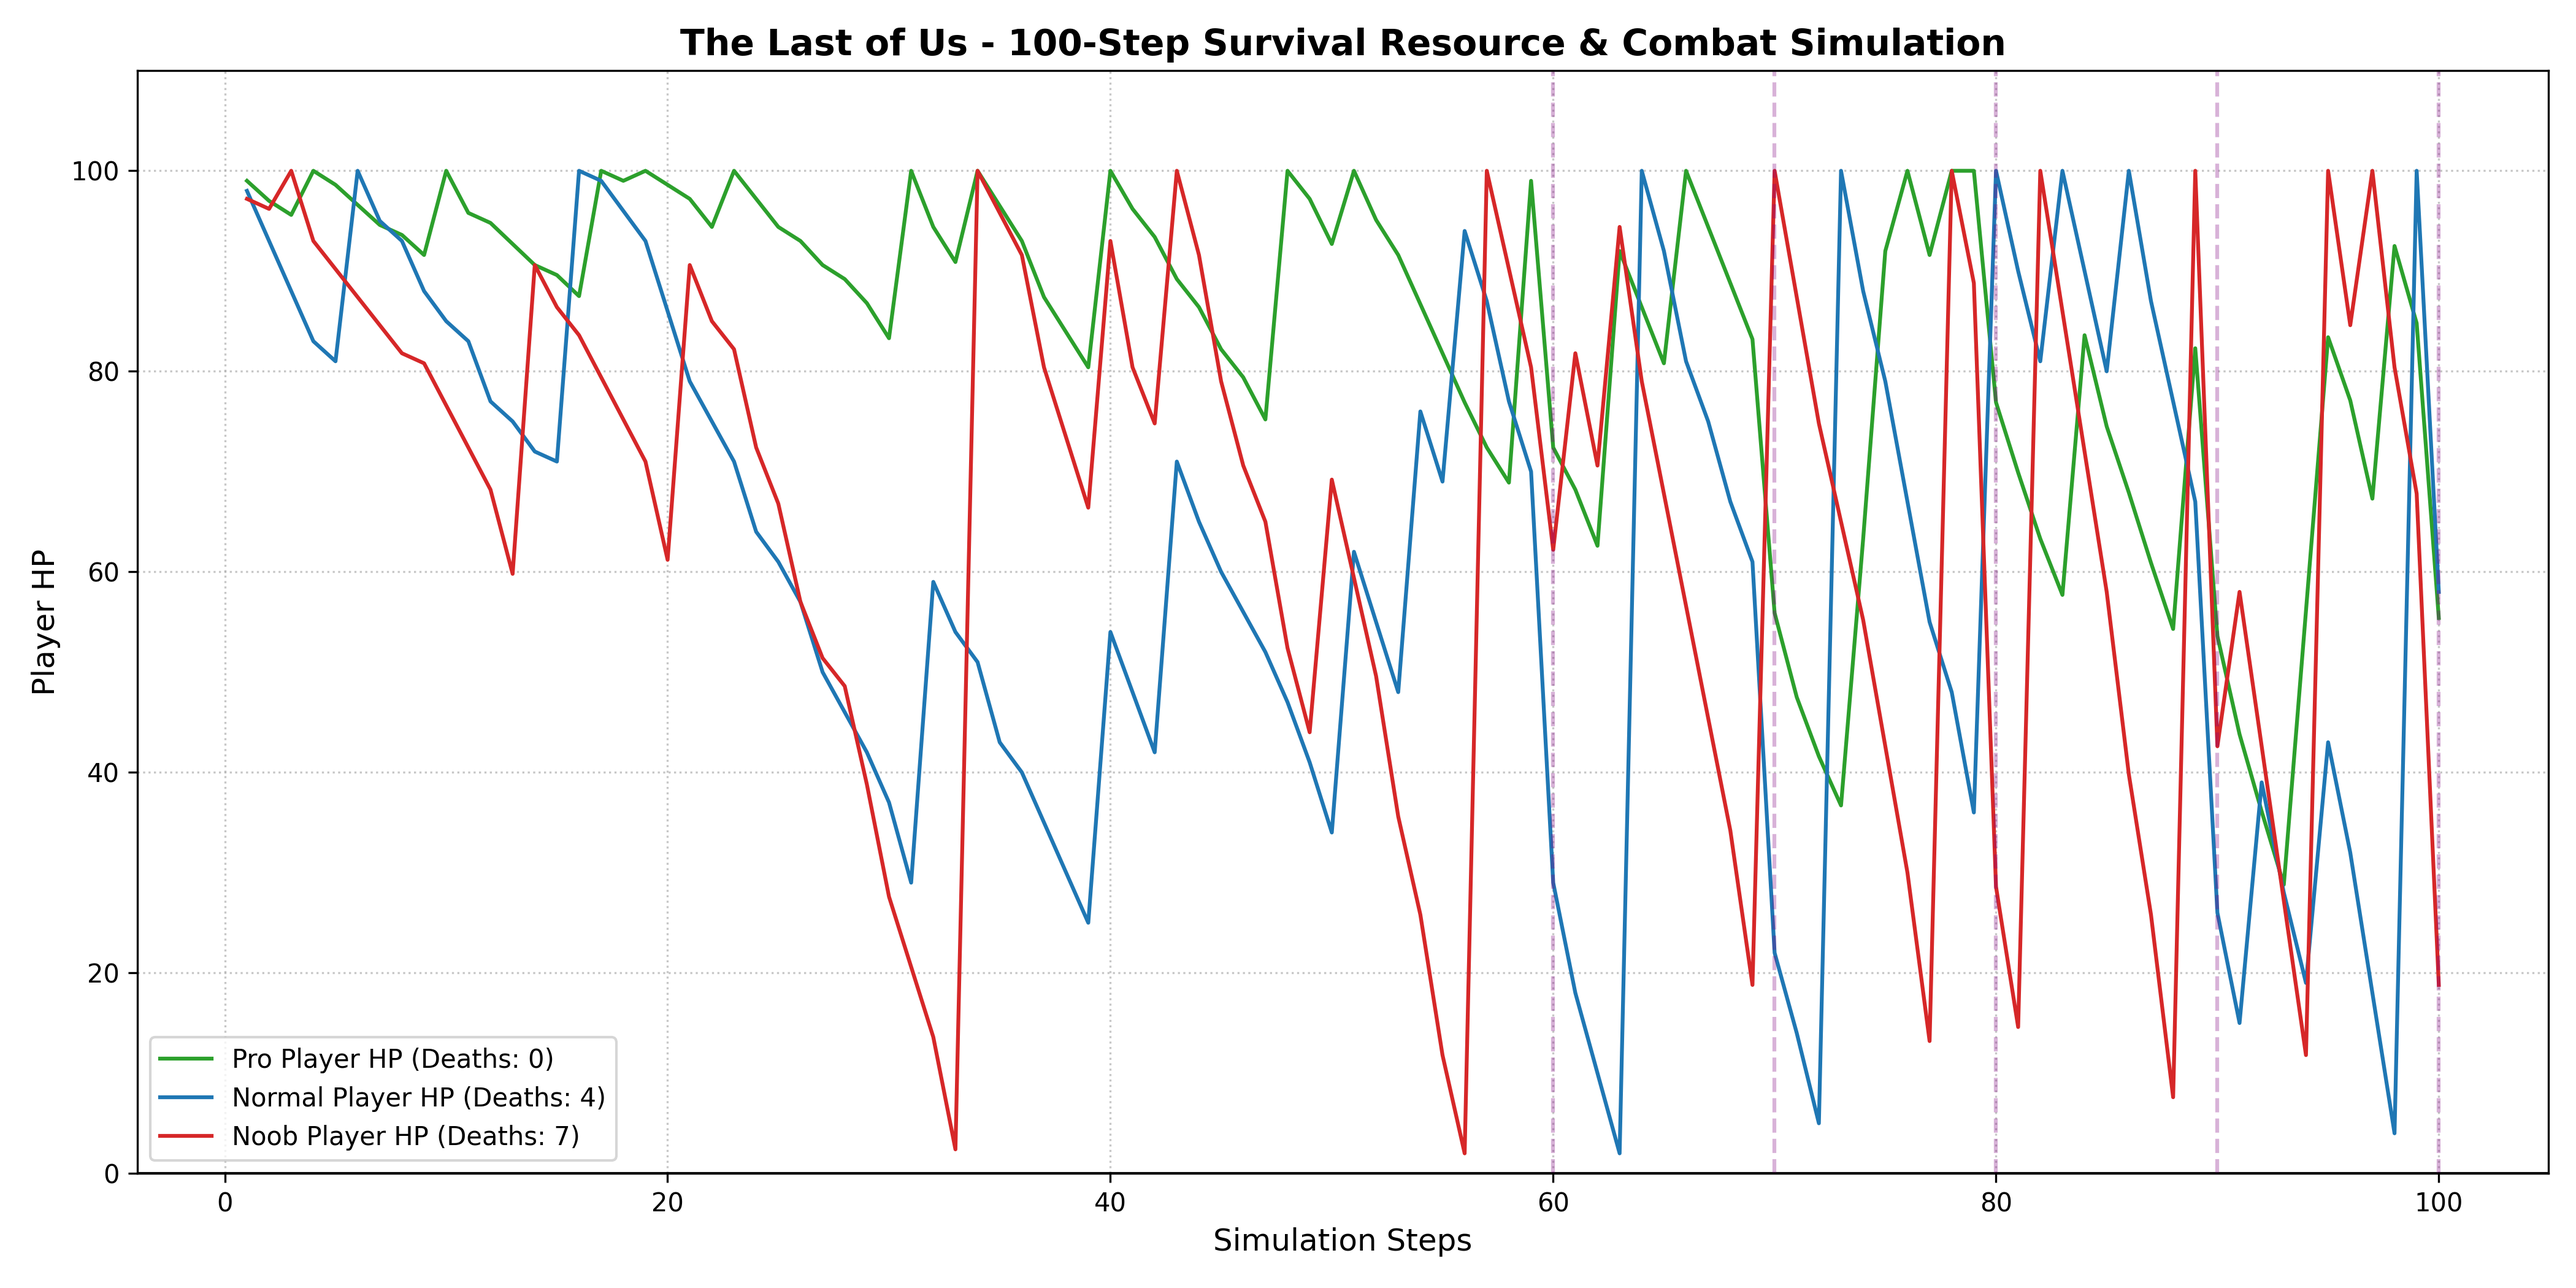
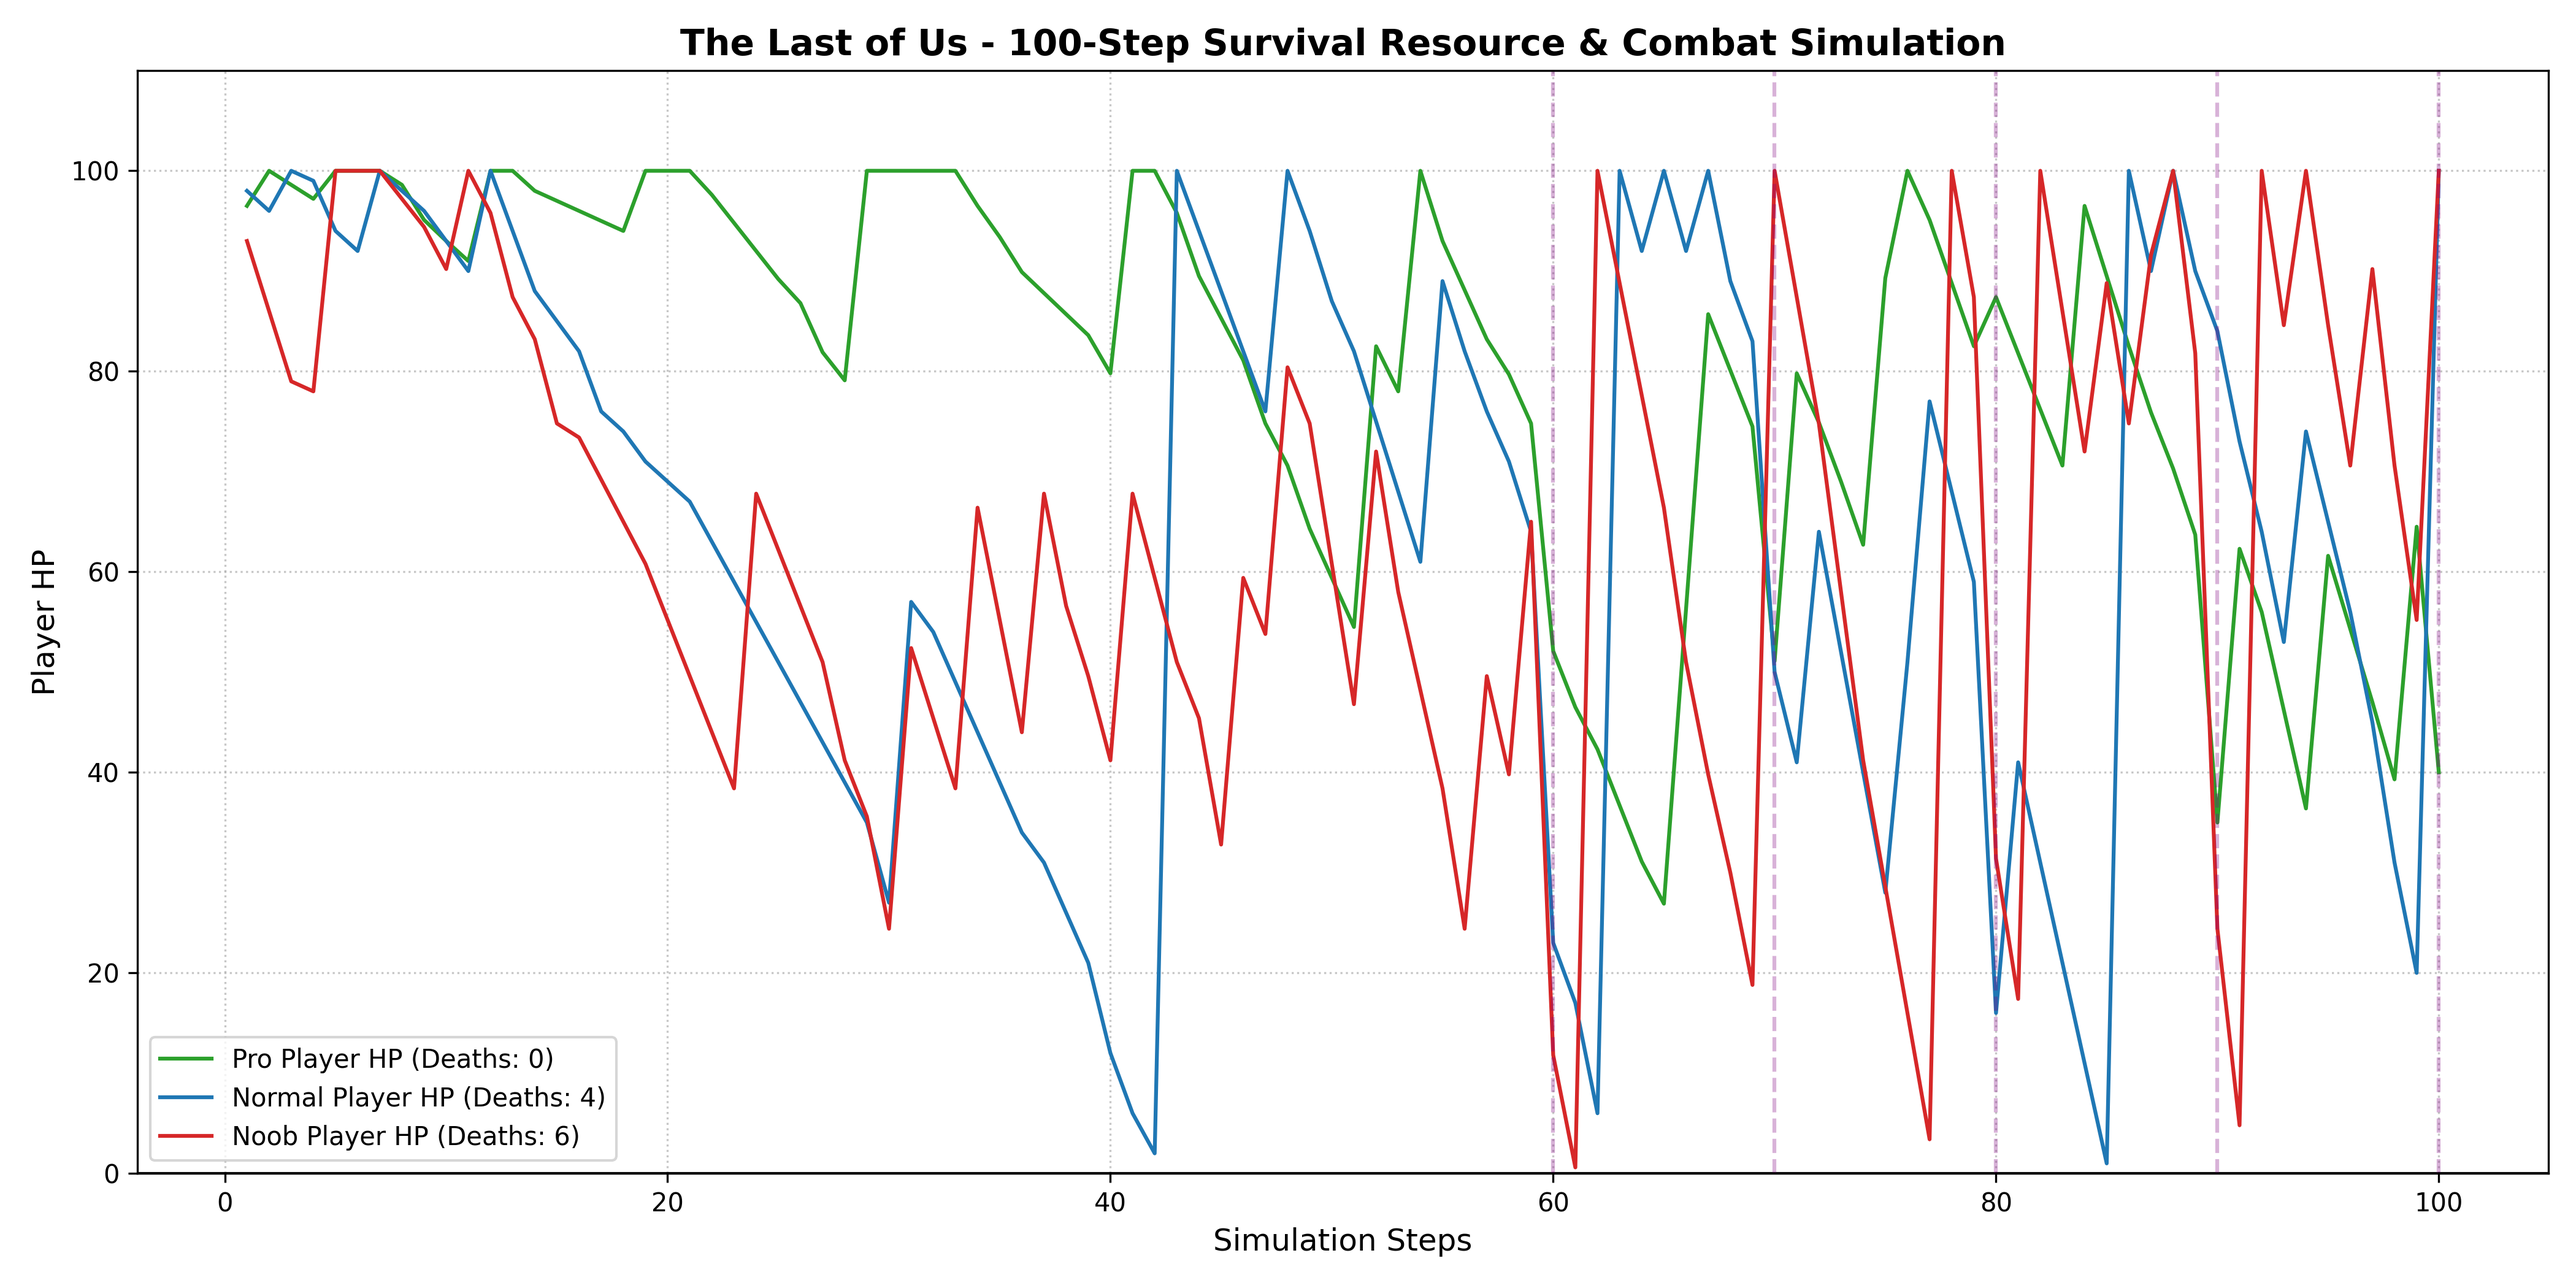
tlou_survival_simulation: magic numbers temizlendi (config.py), optimizasyonlar, README.md guncellendi ve grafik eklendi

diff --git a/simulation.py b/simulation.py
@@ -1,5 +1,6 @@
 import random
 import matplotlib.pyplot as plt
+import config
 
 class Player:
     def __init__(self, name, scavenge_rate, skill_modifier, hp_threshold, medkit_prob_high, medkit_prob_low):
@@ -10,124 +11,93 @@ class Player:
         self.medkit_prob_high = medkit_prob_high
         self.medkit_prob_low = medkit_prob_low
         
-        self.hp = 100
+        self.hp = config.MAX_HP
         self.deaths = 0
         self.alcohol = 0
         self.rags = 0
         self.medkits = 0
         self.molotovs = 0
         
-        # Hard limits as per PDF ("strictly capacity-capped inventories")
-        self.max_cap = 3 
+        self.max_cap = config.MAX_INVENTORY_CAP 
         
         self.hp_history = []
         
     def step(self, step_num):
-        # 1. Scavenge
-        if random.random() < self.scavenge_rate:
-            if self.alcohol < self.max_cap:
-                self.alcohol += 1
-        if random.random() < self.scavenge_rate:
-            if self.rags < self.max_cap:
-                self.rags += 1
+        # 1. Scavenge (Optimized logic)
+        if random.random() < self.scavenge_rate and self.alcohol < self.max_cap:
+            self.alcohol += 1
+        if random.random() < self.scavenge_rate and self.rags < self.max_cap:
+            self.rags += 1
                 
-        # 2. Craft
-        # Note: only the raw materials (Alcohol, Rag) are capped at max_cap.
-        # Medkit and Molotov inventories are uncapped in the Machinations model.
+        # 2. Craft (Optimized logic)
         if self.alcohol > 0 and self.rags > 0:
             prob = self.medkit_prob_high if self.hp > self.hp_threshold else self.medkit_prob_low
             if random.random() < prob:
                 self.medkits += 1
-                self.alcohol -= 1
-                self.rags -= 1
             else:
                 self.molotovs += 1
-                self.alcohol -= 1
-                self.rags -= 1
+            self.alcohol -= 1
+            self.rags -= 1
 
         # 3. Enemy Damage
-        # Machinations formulas (M = current Molotov stock, acts as a damage buffer;
-        # S = Skill Modifier -- multiplied INSIDE the max(1, ...) floor, per the
-        # formulas read directly from the Machinations nodes):
-        #   Zombie:  max(1, (2 + floor(STEP/10) - M*2) * S)          -- every step
-        #   Clicker: random() < 0.3 ? max(1, (3 - M*2) * S) : 0      -- every step
-        #   Bloater: STEP in {60,70,80,90,100} ? max(1, (30 - M*5) * S) : 0
         M = self.molotovs
 
-        zombie_dmg = max(1, (2 + (step_num // 10) - M * 2) * self.skill_modifier)
+        zombie_dmg = max(1, (config.ZOMBIE_BASE_DMG + (step_num // 10) - M * config.ZOMBIE_MOLOTOV_DEFENSE) * self.skill_modifier)
 
         clicker_dmg = 0
-        if random.random() < 0.3:
-            clicker_dmg = max(1, (3 - M * 2) * self.skill_modifier)
+        if random.random() < config.CLICKER_PROBABILITY:
+            clicker_dmg = max(1, (config.CLICKER_BASE_DMG - M * config.CLICKER_MOLOTOV_DEFENSE) * self.skill_modifier)
 
         actual_dmg = zombie_dmg + clicker_dmg
 
-        if step_num in (60, 70, 80, 90, 100):
-            bloater_dmg = max(1, (30 - M * 5) * self.skill_modifier)
+        if step_num in config.BLOATER_SPAWN_STEPS:
+            bloater_dmg = max(1, (config.BLOATER_BASE_DMG - M * config.BLOATER_MOLOTOV_DEFENSE) * self.skill_modifier)
             actual_dmg += bloater_dmg
 
         self.hp -= actual_dmg
 
-        # "Use Molotov" is an automatic pull: any Molotov in inventory is spent
-        # immediately after it's used to buffer this step's damage. Crafting only
-        # ever produces one item per step, so molotov stock is always 0 or 1 here.
         if self.molotovs > 0:
             self.molotovs -= 1
 
         # 4. Death Check
         if self.hp <= 0:
             self.deaths += 1
-            self.hp = 100
+            self.hp = config.MAX_HP
             
-        # 5. Heal Action
-        # Medkit is also an automatic pull: it's used the instant it's crafted if
-        # HP < 100, but it never carries over to a later step -- if HP was already
-        # full this step, the medkit is discarded rather than stockpiled.
-        if self.hp < 100 and self.medkits > 0:
-            self.hp += 35
-            if self.hp > 100:
-                self.hp = 100
+        # 5. Heal Action (Optimized logic)
+        if self.hp < config.MAX_HP and self.medkits > 0:
+            self.hp = min(self.hp + config.MEDKIT_HEAL_AMOUNT, config.MAX_HP)
         self.medkits = 0
             
         # 6. Record
         self.hp_history.append(self.hp)
 
 def main():
-    # No fixed seed: each run reflects the system's natural randomness.
-    # Across repeated runs the pattern holds -- Pro survives best, Noob struggles
-    # most -- but exact death counts will vary run to run.
-    
-    # Pro: Scavenge 60%, Skill 0.7, Threshold 70, Medkit Prob High 0.3, Low 0.6
     pro = Player("Pro Player", 0.60, 0.7, 70, 0.30, 0.60)
-    
-    # Normal: Scavenge 40%, Skill 1.0, Threshold 50, Medkit Prob High 0.45, Low 0.85
     normal = Player("Normal Player", 0.40, 1.0, 50, 0.45, 0.85)
-    
-    # Noob: Scavenge 30%, Skill 1.4, Threshold 40, Medkit Prob High 0.55, Low 0.85
     noob = Player("Noob Player", 0.30, 1.4, 40, 0.55, 0.85)
     
     players = [pro, normal, noob]
     
-    for step in range(1, 101):
+    for step in range(1, config.TOTAL_STEPS + 1):
         for p in players:
             p.step(step)
             
     # Plotting
     plt.figure(figsize=(14, 7))
     
-    plt.plot(range(1, 101), pro.hp_history, label=f"Pro Player HP (Deaths: {pro.deaths})", color='#2ca02c')
-    plt.plot(range(1, 101), normal.hp_history, label=f"Normal Player HP (Deaths: {normal.deaths})", color='#1f77b4')
-    plt.plot(range(1, 101), noob.hp_history, label=f"Noob Player HP (Deaths: {noob.deaths})", color='#d62728')
+    plt.plot(range(1, config.TOTAL_STEPS + 1), pro.hp_history, label=f"Pro Player HP (Deaths: {pro.deaths})", color='#2ca02c')
+    plt.plot(range(1, config.TOTAL_STEPS + 1), normal.hp_history, label=f"Normal Player HP (Deaths: {normal.deaths})", color='#1f77b4')
+    plt.plot(range(1, config.TOTAL_STEPS + 1), noob.hp_history, label=f"Noob Player HP (Deaths: {noob.deaths})", color='#d62728')
     
-    plt.title("The Last of Us - 100-Step Survival Resource & Combat Simulation", fontsize=14, fontweight='bold')
+    plt.title(f"The Last of Us - {config.TOTAL_STEPS}-Step Survival Resource & Combat Simulation", fontsize=14, fontweight='bold')
     plt.xlabel("Simulation Steps", fontsize=12)
     plt.ylabel("Player HP", fontsize=12)
     
-    plt.ylim(0, 110)
+    plt.ylim(0, config.MAX_HP + 10)
     plt.axhline(y=0, color='black', linewidth=1)
     
-    # Highlight bloater spikes (steps 60, 70, 80, 90, 100)
-    for step in (60, 70, 80, 90, 100):
+    for step in config.BLOATER_SPAWN_STEPS:
         plt.axvline(x=step, color='purple', linestyle='--', alpha=0.3)
     
     plt.legend(loc='lower left')

diff --git a/config.py b/config.py
@@ -1,0 +1,20 @@
+# config.py
+# The Last of Us Survival Simulation - Game Constants
+
+MAX_HP = 100
+MAX_INVENTORY_CAP = 3
+
+MEDKIT_HEAL_AMOUNT = 35
+
+ZOMBIE_BASE_DMG = 2
+ZOMBIE_MOLOTOV_DEFENSE = 2
+
+CLICKER_PROBABILITY = 0.3
+CLICKER_BASE_DMG = 3
+CLICKER_MOLOTOV_DEFENSE = 2
+
+BLOATER_SPAWN_STEPS = (60, 70, 80, 90, 100)
+BLOATER_BASE_DMG = 30
+BLOATER_MOLOTOV_DEFENSE = 5
+
+TOTAL_STEPS = 100

diff --git a/README.md b/README.md
@@ -4,7 +4,7 @@ This project translates a visual Machinations.io system analysis of *The Last of
 
 ## Overview
 
-The simulation runs for 100 steps and tests three different player profiles (Pro, Normal, and Noob) against identical environmental and combat conditions.
+The simulation runs for 100 steps and tests three different player profiles (Pro, Normal, and Noob) against identical environmental and combat conditions. All core game variables and difficulty settings (such as base enemy damage, spawn rates, and maximum health) are exposed and fully configurable via the new `config.py` file.
 
 ### Player Profiles
 * **Pro Player:** High scavenging efficiency (60%), takes less damage (0.7x), favors Molotovs when healthy (HP > 70) but shifts toward Medkits when HP drops to 70 or below.
@@ -27,14 +27,17 @@ The simulation runs for 100 steps and tests three different player profiles (Pro
 ## Output
 Running the script outputs a graphical chart (`simulation_results.png`) showing the three players' HP trajectories over 100 steps, with the five Bloater spike steps marked. It illustrates how resource scarcity in the late game leads to death loops for less efficient players.
 
+![Simulation Results](simulation_results.png)
+
 **On randomness:** the script uses no fixed random seed, so exact death counts will differ between runs. What stays consistent across runs is the *pattern*: the Pro Player reliably survives with the fewest deaths, the Noob Player reliably struggles the most, and the Normal Player falls in between — matching the original Machinations model's conclusion that survival is governed by the relationship between inventory limitations and escalating enemy pressure, not by any single lucky run.
 
 ## How to Run
 
 1. Ensure you have Python installed.
 2. Install `matplotlib` if you haven't already (`pip install matplotlib`).
-3. Run the script:
+3. (Optional) Adjust game mechanics and difficulty by editing `config.py`.
+4. Run the script:
    ```bash
    python simulation.py
    ```
-4. View the generated `simulation_results.png` graph.
+5. View the generated `simulation_results.png` graph.
